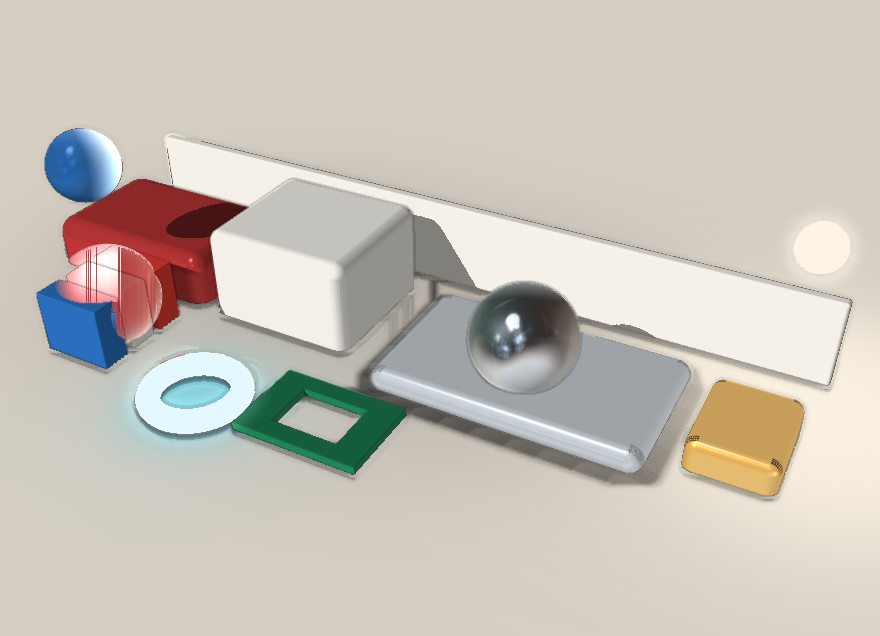
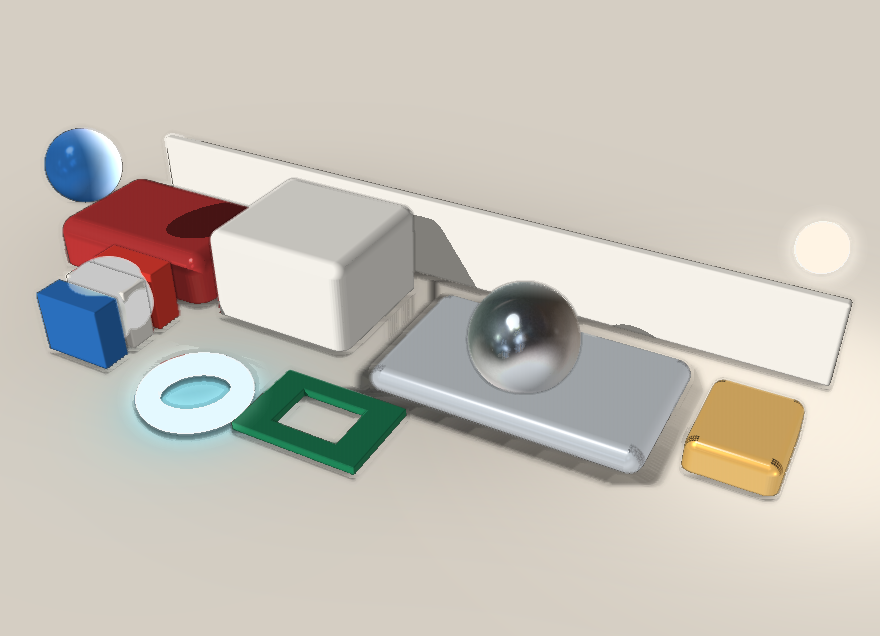
QUALITY-6 yawback: squat yaw glass + still frost shell
Restore boxyaw hard-yaw glass geometry with mid mint fills;
seat still glass on the white stripe with frost 0.16 so clear
transmit stops painting red bars. Slightly larger Standard metal.

Changed region(s): [[0.0614, 0.3585, 0.1841, 0.5377]]

diff --git a/scripts/gallery-3d.ts b/scripts/gallery-3d.ts
@@ -135,15 +135,15 @@ const FINISHES: Finish[] = [
     // Glassmass: metfix A+B materials 6 — yawed mint nearly vanished. Larger
     // denser box, milder yaw; sphere fill denser so the disk still reads.
     label: 'glass 0.06',
-    box: 'fill="#3d8a76f5" material="glass 0.06"',
-    sphere: 'fill="#b8e4d8d0" material="glass 0.06"',
+    box: 'fill="#449884f0" material="glass 0.06"',
+    sphere: 'fill="#c4eadfd0" material="glass 0.06"',
     side: 'fill="#e0a33a"',
     stripes: true,
   },
   {
     label: 'glass 0.72',
-    box: 'fill="#2a5a52f5" material="glass 0.72"',
-    sphere: 'fill="#8eb0a8e8" material="glass 0.72"',
+    box: 'fill="#355a52f0" material="glass 0.72"',
+    sphere: 'fill="#9cb8b0e8" material="glass 0.72"',
     side: 'fill="#e0a33a"',
     stripes: true,
   },
@@ -200,11 +200,11 @@ function cluster(finish: Finish): string {
     : finish.stripes
       ? `<sphere id="sphere" cx="210" cy="70" r="34" z="50" ${finish.sphere} />`
       : `<sphere id="sphere" cx="204" cy="72" r="30" z="30" ${finish.sphere} />`
-  // Glassmass: bigger mint mass left of thinbars; mild yaw for top/side without
-  // shrinking the silhouette to a sliver (metfix materials 6).
+  // Yawback: squat hard-yaw box left of thinbars (boxyaw B materials 7);
+  // glassmass fat -18 yaw read as RGB fragments again.
   const box = finish.stripes
     ? glassCell
-      ? `<rect id="box" x="0" y="22" width="148" height="88" depth="110" rx="18" rotateY="-18" ${finish.box} />`
+      ? `<rect id="box" x="-4" y="38" width="120" height="64" depth="120" rx="16" rotateY="-28" ${finish.box} />`
       : `<rect id="box" x="14" y="14" width="158" height="110" depth="98" rx="16" ${finish.box} />`
     : `<rect id="box" x="28" y="30" width="120" height="86" depth="72" rx="12" ${finish.box} />`
   // Gold accent sphere (not finish.side): metal cells used to paint two
@@ -402,10 +402,10 @@ function buildPlates(): { sheet: string; title: string; cols: number; cells: Pla
           )
           .replace(
             '<sphere id="glass" cx="264" cy="268" r="58" z="58" fill="#d8ebe6a0" material="glass 0.06" />',
-            // Glassmass: metform A+B still 6 — glass muddled red/blue clip
-            // through-lines. Seat on white stripe only; denser shell so the
-            // outline reads as one solid (white-through-glass still ≥0.1).
-            '<sphere id="glass" cx="213" cy="250" r="48" z="40" fill="#c8e4d8c8" material="glass 0.08" />',
+            // Yawback: glassmass B still 6 — hard vertical red bars through
+            // glass (clear transmit). Seat on white stripe only, smaller so
+            // red/blue stay out of the disk; mid frost kills column bars.
+            '<sphere id="glass" cx="213" cy="250" r="40" z="36" fill="#d4ebe4c0" material="glass 0.16" />',
           )
           .replace(
             '<circle id="gold" cx="780" cy="150" r="40" depth="160" fill="#e0a33a" material="plastic 0.22" />',

diff --git a/docs/gallery/3d/model/standard-metal.tsx b/docs/gallery/3d/model/standard-metal.tsx
@@ -18,7 +18,7 @@ export default layer.create(
     <layer
       width={440}
       height={300}
-      camera="fov 34, orbit 38 24, distance 880, at 220 198 0"
+      camera="fov 34, orbit 38 24, distance 850, at 220 198 0"
       light="world"
       quality="final"
     >
@@ -34,7 +34,7 @@ export default layer.create(
         <rect x="250" y="-45" width="140" height="12" depth="180" fill="#c87848" />
         <rect x="30" y="-30" width="100" height="10" depth="160" fill="#4a8fd0" />
         <rect x="80" y="-55" width="160" height="8" depth="200" fill="#f0ebe4" />
-        <model object={mesh} unit={118} x={200} y={188} material="finish metal, color #b8c4d0, roughness 0.02, metalness 1" />
+        <model object={mesh} unit={122} x={200} y={188} material="finish metal, color #b8c4d0, roughness 0.02, metalness 1" />
       </layer>
     </layer>
     <layer x={12} y={272}>
